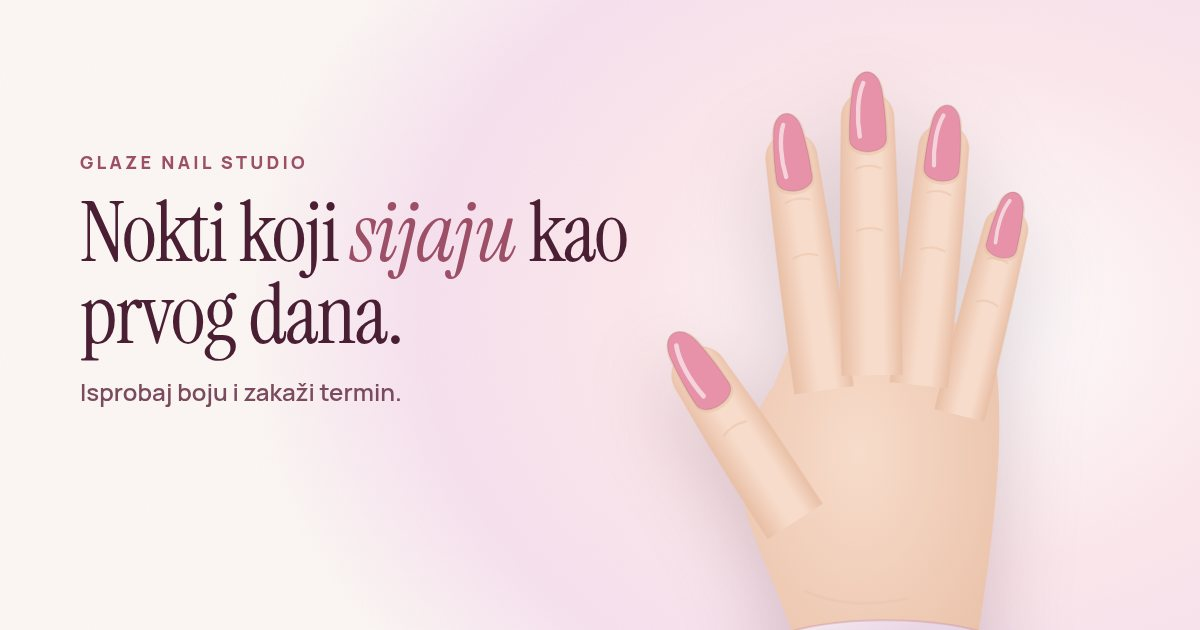
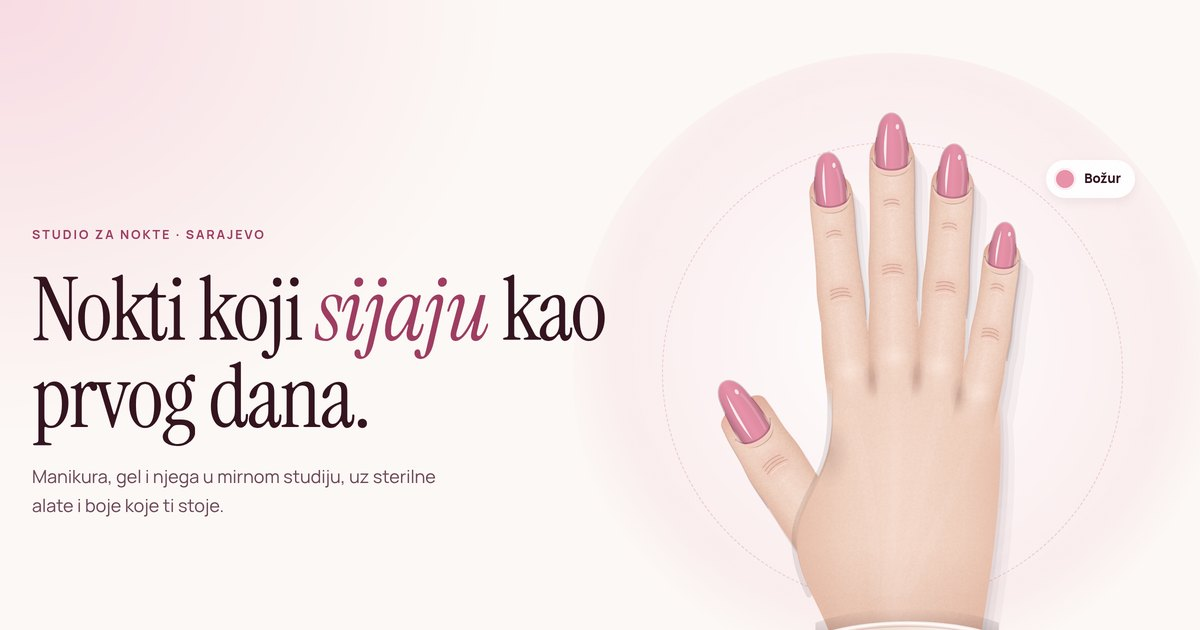
Prava adresa stranice, nova slika za dijeljenje i slike u README

diff --git a/index.html b/index.html
@@ -6,12 +6,12 @@
 <title>Glaze Nail Studio · Manikura, gel i njega noktiju</title>
 <meta name="description" content="Studio za nokte: manikura, gel lak, nadogradnja, pedikura i njega. Isprobaj boju na ruci i zakaži termin preko Vibera ili WhatsAppa.">
 <meta name="theme-color" content="#FCF8F5">
-<script>try{var g=(location.search.match(/[?&]lang=(bs|en|de)/)||[])[1]||JSON.parse(localStorage.getItem('glaze-lang')||'null')||(navigator.language||'').slice(0,2);var k=document.createElement('link');k.rel='preload';k.as='script';k.href='js/i18n-'+(g==='en'||g==='de'?g:'bs')+'.js?v=9';document.head.appendChild(k)}catch(e){}</script>
-<link rel="canonical" href="https://beauty-salon.example/">
-<link rel="alternate" hreflang="bs" href="https://beauty-salon.example/?lang=bs">
-<link rel="alternate" hreflang="en" href="https://beauty-salon.example/?lang=en">
-<link rel="alternate" hreflang="de" href="https://beauty-salon.example/?lang=de">
-<link rel="alternate" hreflang="x-default" href="https://beauty-salon.example/">
+<script>try{var g=(location.search.match(/[?&]lang=(bs|en|de)/)||[])[1]||JSON.parse(localStorage.getItem('glaze-lang')||'null')||(navigator.language||'').slice(0,2);var k=document.createElement('link');k.rel='preload';k.as='script';k.href='js/i18n-'+(g==='en'||g==='de'?g:'bs')+'.js?v=10';document.head.appendChild(k)}catch(e){}</script>
+<link rel="canonical" href="https://beauty-salon.grabafaceit.workers.dev/">
+<link rel="alternate" hreflang="bs" href="https://beauty-salon.grabafaceit.workers.dev/?lang=bs">
+<link rel="alternate" hreflang="en" href="https://beauty-salon.grabafaceit.workers.dev/?lang=en">
+<link rel="alternate" hreflang="de" href="https://beauty-salon.grabafaceit.workers.dev/?lang=de">
+<link rel="alternate" hreflang="x-default" href="https://beauty-salon.grabafaceit.workers.dev/">
 <link rel="icon" href="assets/icons/favicon.svg" type="image/svg+xml">
 <link rel="icon" href="assets/icons/favicon-32.png" sizes="32x32" type="image/png">
 <link rel="apple-touch-icon" href="assets/icons/apple-touch-icon.png">
@@ -19,16 +19,16 @@
 <meta property="og:type" content="website">
 <meta property="og:title" content="Glaze Nail Studio">
 <meta property="og:description" content="Nokti koji sijaju kao prvog dana. Isprobaj boju i zakaži termin.">
-<meta property="og:image" content="https://beauty-salon.example/assets/og.jpg">
+<meta property="og:image" content="https://beauty-salon.grabafaceit.workers.dev/assets/og.jpg">
 <meta name="twitter:card" content="summary_large_image">
 <link rel="preload" href="assets/fonts/manrope.woff2" as="font" type="font/woff2" crossorigin>
 <link rel="preload" href="assets/fonts/instrument-serif.woff2" as="font" type="font/woff2" crossorigin>
-<link rel="stylesheet" href="css/style.css?v=9">
-<link rel="stylesheet" href="css/components.css?v=9">
-<link rel="stylesheet" href="css/sections.css?v=9">
-<script src="js/salon.js?v=9" defer></script>
-<script src="js/hand.js?v=9" defer></script>
-<script src="js/app.js?v=9" defer></script>
+<link rel="stylesheet" href="css/style.css?v=10">
+<link rel="stylesheet" href="css/components.css?v=10">
+<link rel="stylesheet" href="css/sections.css?v=10">
+<script src="js/salon.js?v=10" defer></script>
+<script src="js/hand.js?v=10" defer></script>
+<script src="js/app.js?v=10" defer></script>
 </head>
 <body>
 <svg width="0" height="0" style="position:absolute" aria-hidden="true">

diff --git a/sw.js b/sw.js
@@ -1,5 +1,5 @@
 /* Offline keš: stranica se otvara i bez interneta sa zadnjim podacima. */
-var CACHE = 'glaze-v9';
+var CACHE = 'glaze-v10';
 var CORE = ['./', 'index.html', 'css/style.css', 'css/components.css', 'css/sections.css', 'js/salon.js', 'js/i18n-bs.js', 'js/i18n-en.js', 'js/i18n-de.js', 'js/hand.js', 'js/app.js', 'js/tryon.js', 'js/booking.js', 'js/extras.js', 'js/outfit.js',
   'assets/fonts/instrument-serif.woff2', 'assets/fonts/instrument-serif-italic.woff2', 'assets/fonts/manrope.woff2', 'assets/icons/favicon.svg', 'assets/icons/icon-192.png', 'manifest.webmanifest'];
 self.addEventListener('install', function (e) { e.waitUntil(caches.open(CACHE).then(function (c) { return c.addAll(CORE); }).then(function () { return self.skipWaiting(); })); });

diff --git a/js/salon.js b/js/salon.js
@@ -5,7 +5,7 @@ window.SALON = {
   name: 'Glaze Nail Studio',                       // PRIMJER: naziv salona
   short: 'Glaze',
   slogan: ['Nokti koji sijaju kao prvog dana.', 'Nails that shine like day one.', 'Nägel, die strahlen wie am ersten Tag.'],
-  url: 'https://beauty-salon.example',             // PRIMJER: prava adresa stranice kad se objavi
+  url: 'https://beauty-salon.grabafaceit.workers.dev',             // PRIMJER: prava adresa stranice kad se objavi
   currency: 'KM',                                  // 'KM' ili 'EUR'
   timeZone: 'Europe/Sarajevo',
 

diff --git a/js/app.js b/js/app.js
@@ -22,7 +22,7 @@
   $$('[data-feature]').forEach(function (el) { if (F[el.getAttribute('data-feature')]) el.classList.add('feat-on'); else el.remove(); });
 
   var APP = window.APP = {
-    $: $, $$: $$, esc: esc, store: store, reduced: reduced, v: '9', features: F,
+    $: $, $$: $$, esc: esc, store: store, reduced: reduced, v: '10', features: F,
     lang: (function () {
       var q = (location.search.match(/[?&]lang=(bs|en|de)/) || [])[1], saved = store('lang');
       var nav = (navigator.language || '').slice(0, 2);

diff --git a/README.md b/README.md
@@ -2,9 +2,17 @@
 
 Web stranica za salon za nokte: manikura, gel lak, nadogradnja, pedikura i njega.
 
+**Uživo:** https://beauty-salon.grabafaceit.workers.dev
+
+**Autor:** Ahmed Grabus (Graba) · [portfolio](https://graba-portofolio.grabafaceit.workers.dev) · [GitHub](https://github.com/grabator)
+
+<a href="https://beauty-salon.grabafaceit.workers.dev"><img src="assets/readme/desktop.jpg" alt="Glaze Nail Studio, početna stranica na desktopu" width="100%"></a>
+
+<a href="https://beauty-salon.grabafaceit.workers.dev"><img src="assets/readme/mobile.jpg" alt="Glaze Nail Studio na mobitelu: početna, studio, galerija po godišnjim dobima i upit za termin" width="100%"></a>
+
 Posjetiteljka može pregledati galeriju dizajna (i po godišnjem dobu), vidjeti lokaciju na Google mapi, isprobati boju, oblik, dužinu i stil noktiju na realistično nacrtanoj ruci, dobiti prijedlog nijanse uz svoj outfit, sačuvati omiljene kombinacije i jednim dodirom poslati upit za termin preko Vibera, WhatsAppa ili Instagrama. Stranica radi na bosanskom, engleskom i njemačkom, a na mobitelu se ponaša kao aplikacija (može se dodati na početni ekran i radi bez interneta).
 
-Čisti HTML, CSS i JavaScript, bez frameworka i bez build koraka. Sva grafika je nacrtana u SVG-u.
+Čisti HTML, CSS i JavaScript, bez frameworka i bez build koraka. Ruka, nokti i ilustracije su nacrtani u SVG-u, a fotografije u sekciji Studio su primjer.
 
 ## Pokretanje
 
@@ -23,7 +31,7 @@ Svi podaci salona su u `js/salon.js`. Tekstovi interfejsa su u `js/i18n-bs.js`, 
 Sve označeno sa "PRIMJER" je izmišljeno za demo:
 
 - `name`, `short`, `slogan`: naziv i slogan salona
-- `url`: prava adresa stranice (ista adresa i u `index.html`, `robots.txt` i `sitemap.xml`, umjesto `beauty-salon.example`)
+- `url`: adresa stranice (sada https://beauty-salon.grabafaceit.workers.dev; ista adresa je i u `index.html`, `robots.txt` i `sitemap.xml`)
 - `contact`: telefon, Viber, WhatsApp, Instagram, email i link za Google recenzije
 - `address`: ulica, grad, poštanski broj, koordinate, link za mapu i opis parkinga
 - `hours` i `holidays`: radno vrijeme po danima i neradni dani
